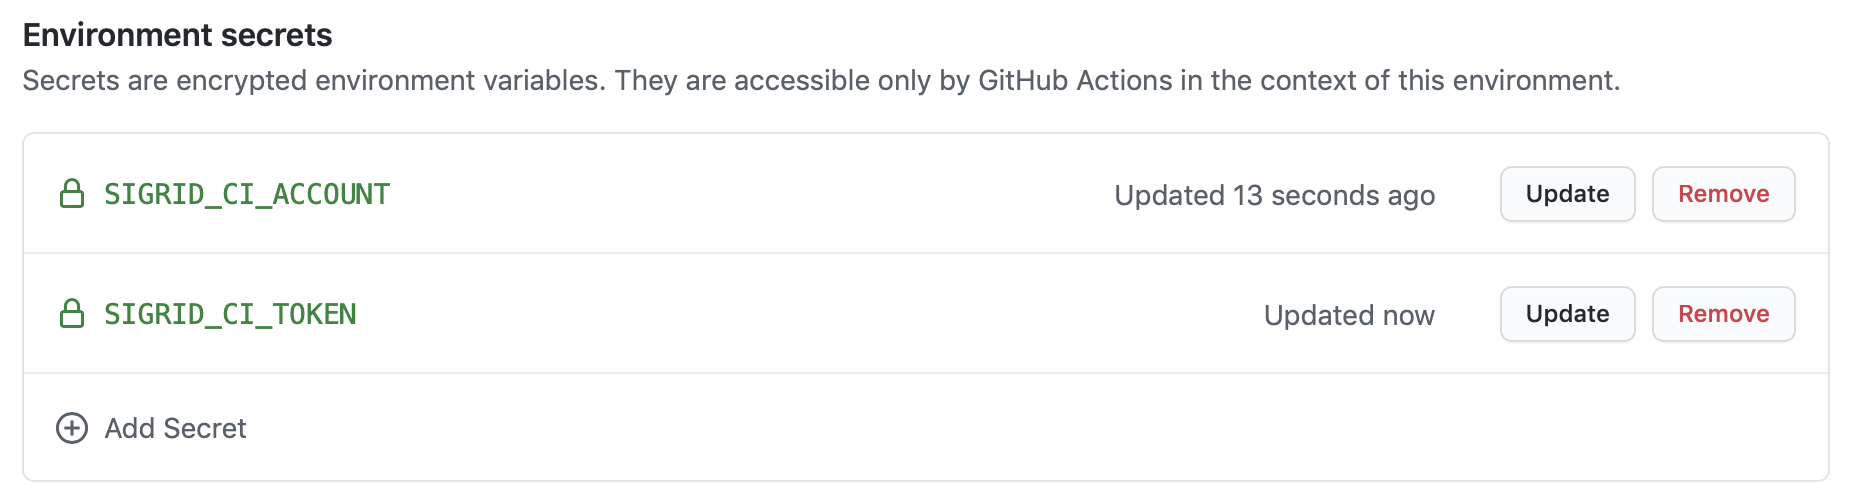
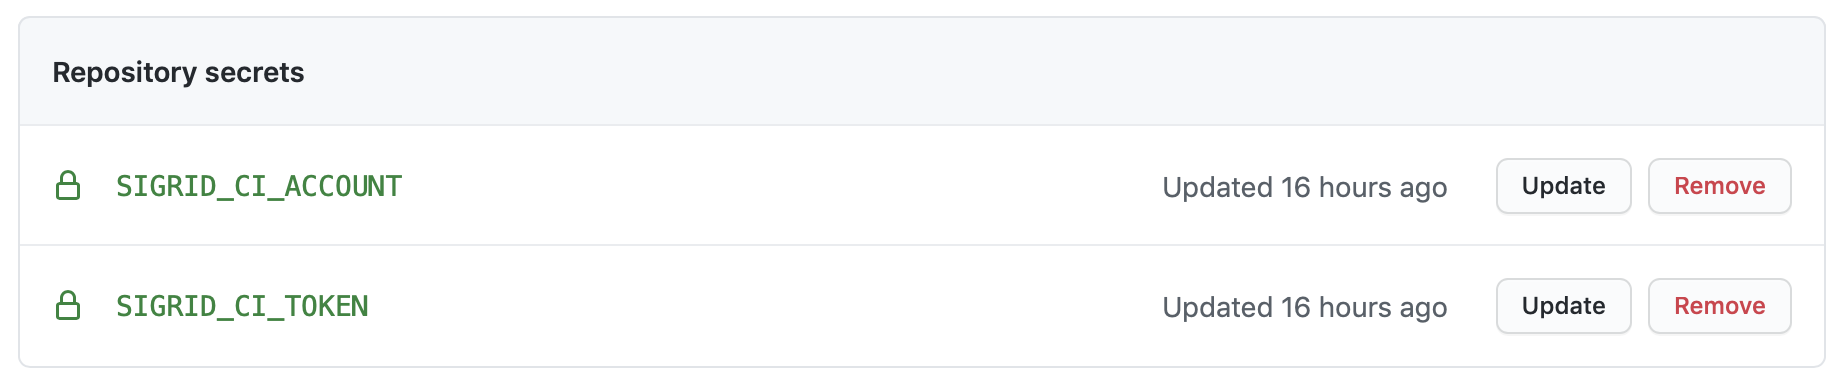
Add step-by-step guide for BitBucket Pipelines.

diff --git a/bitbucket-pipelines.md b/bitbucket-pipelines.md
@@ -1,7 +1,7 @@
-Integrating Sigrid CI with GitLab
-=================================
+Integrating Sigrid CI with BitBucket Pipelines
+==============================================
 
-This guide explains how to integrate Sigrid into your GitLab continuous integration pipeline. Make sure you have also read the [general Sigrid CI documentation](README.md) before starting this guide.
+This guide explains how to integrate Sigrid into your BitBucket Pipelines continuous integration pipeline. Make sure you have also read the [general Sigrid CI documentation](README.md) before starting this guide.
 
 ---
 
@@ -27,50 +27,39 @@ Once the account has been created, you can use Sigrid's user management feature 
 
 **Step 1: Configure Sigrid credentials to environment variables**
 
-Sigrid CI reads your Sigrid account credentials from two environment variables, called `SIGRID_CI_ACCOUNT` and `SIGRID_CI_TOKEN`. To add them to your GitLab CI pipeline, follow these steps:
+Sigrid CI reads your Sigrid account credentials from two environment variables, called `SIGRID_CI_ACCOUNT` and `SIGRID_CI_TOKEN`. You can make these environment variables available to BitBucket Pipelines by creating "secrets" in your repository:
 
-- Select "Settings" in your GitLab project's menu
-- Select "CI/CD" in the settings menu
-- Locate the section named "Variables"
-- Click the "Add variable" button
-- Add an environment variable `SIGRID_CI_ACCOUNT` with the account name you have received
+- Open "Repository settings" in your project menu
+- Select "Repository variables" located in the section "Pipelines"
+- Create a secret named `SIGRID_CI_ACCOUNT` with the account name you have received
 
-<img src="images/gitlab-env.png" width="400" />
+<img src="images/bitbucket-env.png" width="300" />
 
-- Add another environment variable, `SIGRID_CI_TOKEN`, and add the Sigrid CI token you have received
+- Add another secret named `SIGRID_CI_TOKEN` with the token you have received.
 
-These instructions describe how to configure a single GitLab project, but you can follow the same steps to configure the entire GitLab group, which will make the environment variables available to all projects within that group.
+**Step 2: Create a BitBucket Pipeline for Sigrid CI**
 
-**Step 2: Download the Sigrid CI client scripts and make them available to your Sigrid CI environment**
+Sigrid CI consists of a number of Python-based client scripts, that interact with Sigrid in order to analyze your project's source code and provide feedback based on the results. These client scripts need to be available to the CI environment, in order to call the scripts *from* the CI pipeline. You can configure your Piepline to both download the Sigrid CI client scripts and then run Sigrid CI. 
 
-Sigrid CI consists of a number of Python-based client scripts, that interact with Sigrid in order to analyze your project's source code and provide feedback based on the results. These client scripts need to be available to your GitLab runners, in order to call the scripts *from* the CI pipeline. 
-
-The scripts can be obtained by either cloning or downloading this repository, and moving the `sigridci` directory to a location that is available to the GitLab runners. 
-
-**Step 3: Add Sigrid CI to your project's CI pipeline**
-
-Next, you need to edit your project's CI configuration, in order to add Sigrid CI as an extra step. Open `.gitlab-ci.yml` in your project's root directory and add the following:
+In your BitBucket repository, create a file `bitbucket-pipelines.yml` and give it the following contents:
 
 ```
-stages:  
-(...)
-- report
+image: python:3.9-buster
 
-(...)
-
-sigridci:
-  stage: report
-  script:
-  - /path/to/sigridci/sigridci.py --customer opensource --system junit --source . --targetquality 3.5
-  allow_failure: true
-  artifacts:
-    paths:
-    - "sigrid-ci-output/*"
-    expire_in: 1 week
-    when: always
+pipelines:
+  default:
+  - step:
+      name: Sigrid CI
+      script:
+      - "git clone https://github.com/Software-Improvement-Group/sigridci.git sigridci"
+      - "./sigridci/sigridci/sigridci.py --customer opensource --system junit --source . --targetquality 3.5"
 ```
 
-The relevant command is the call to the `sigridci.py` script, which will call Sigrid CI. The script takes the following arguments:
+**Security note:** This example downlaods the Sigrid CI client scripts directly from GitHub. That might be acceptable for some projects, and is in fact increasingly common. However, some projects might not allow this as part of their security policy. In those cases, you can simply download the `sigridci` directory in this repository, and make it available to your runners (either by placing the scripts in a known location, or packaging them into a Docker container). 
+
+Refer to the [BitBucket Pipelines documentation](https://support.atlassian.com/bitbucket-cloud/docs/get-started-with-bitbucket-pipelines/) for more information on when and how these steps will be performed. The [bitbucket-pipelines.yml documentation](https://support.atlassian.com/bitbucket-cloud/docs/configure-bitbucket-pipelinesyml/) describes the file format used for the configuration file.
+
+The relevant command that starts Sigrid CI is the call to the `sigridci.py` script, which will call Sigrid CI. The script takes the following arguments:
 
 | Argument        | Required | Example value | Description                                                                                         |
 |-----------------|----------|---------------|-----------------------------------------------------------------------------------------------------|
@@ -84,11 +73,17 @@ Finally, note that you need to perform this step for every project where you wis
 
 ## Usage
 
-Once you have configured the integration, Sigrid CI will show up as a new step in your GitLab CI pipeline. The step will succeed if the code quality meets the specified target, and will fail otherwise. 
+Once Sigrid CI has been enabled, you can access it from the list of pipeline runs by accessing "Pipelines" from your repository's menu:
 
-<img src="images/ci-pipeline.png" width="300" />
+<img src="images/bitbucket-list.png" width="300" />
 
-Sigrid CI provides multiple levels of feedback. The first and fastest type of feedback is directly produced in the CI output, as shown in the following screenshot:
+<img src="images/bitbucket-pipeline-indicator.png" width="300" />
+
+The check will succeed if the code quality meets the specified target, and will fail otherwise. In addition to this central overview, you can also find the Sigrid CI indicator next to all commits:
+
+<img src="images/bitbucket-commits.png" width="300" />
+
+You can access the results by clicking on the pipeline's success/failure indicator. Sigrid CI provides multiple levels of feedback. The first and fastest type of feedback is directly produced in the CI output, as shown in the following screenshot:
 
 <img src="images/feedback-ci-environment.png" width="600" />
 
@@ -98,11 +93,7 @@ The output consists of the following:
 - An overview of all ratings, compared against the system as a whole. This allows you to check if your changes improved the system, or accidentally made things worse.
 - The final conclusion on whether your changes and merge request meet the quality target.
 
-In addition to the textual output, Sigrid CI also generates a static HTML file that shows the results in a more graphical form. This is similar to test coverage tools, which also tend to produce a HTML report. You can download this report form GitLab using the "download" button on the right side of the CI results view:
-
-<img src="images/gitlab-download.png" width="300" />
-
-The information in the HTML report is based on the aforementioned list, though it includes slightly more detail.
+In addition to the textual output, Sigrid CI also generates a static HTML file that shows the results in a more graphical form. This is similar to test coverage tools, which also tend to produce a HTML report. The information in the HTML report is based on the aforementioned list, though it includes slightly more detail.
 
 <img src="images/feedback-report.png" width="600" />
 

diff --git a/github-actions.md b/github-actions.md
@@ -1,7 +1,7 @@
 Integrating Sigrid CI with GitHub Actions
 =========================================
 
-This guide explains how to integrate Sigrid into your GitHub continuous integration pipeline. Make sure you have also read the [general Sigrid CI documentation](README.md) before starting this guide.
+This guide explains how to integrate Sigrid into your GitHub continuous integration pipeline, using GitHub Actions. Make sure you have also read the [general Sigrid CI documentation](README.md) before starting this guide.
 
 ---
 
@@ -11,37 +11,41 @@ This guide explains how to integrate Sigrid into your GitHub continuous integrat
 
 ## Prerequisites
 
-- You have credentials to submit your code to Sigrid. [Request a Sigrid CI account](mailto:support@softwareimprovementgroup.com) if this is not the case.
+- You have a Sigrid user account. Sigrid CI requires Sigrid, it is currently not supported to *only* use the CI integration without using Sigrid itself.
 - You have on-boarded your system, i.e. your system is available in Sigrid. [Request your system to be added](mailto:support@softwareimprovementgroup.com) if this is not yet the case.
 - [Python 3](https://www.python.org) needs to be available in the CI environment. The client scripts for Sigrid CI are based on Python.
+
+## Request a Sigrid CI account
+
+The account you use to submit code to Sigrid CI is different from your normal Sigrid user account. The account consists of an account name and a token, which you add to your CI environment's configuration in the next step. 
+
+You can obtain a Sigrid CI account by requesting one from [mailto:support@softwareimprovementgroup.com](mailto:support@softwareimprovementgroup.com). Support for creating Sigrid CI accounts yourself will be added in a future version.
+
+Once the account has been created, you can use Sigrid's user management feature to control which systems it is allowed to access. Similar to normal Sigrid user accounts, Sigrid CI accounts can either serve a specific system, a group of systems, or all systems in your portfolio.
 
 ## Configuration
 
 **Step 1: Configure Sigrid credentials to environment variables**
 
-Sigrid CI reads your Sigrid account credentials from two environment variables, called `SIGRID_CI_ACCOUNT` and `SIGRID_CI_TOKEN`. You can either define these environment variables in the CI user's `~/.bashrc`, though some platforms also allow you to define environment variables using a graphical interface.
-
-You can make these environment variables available using the following steps:
+Sigrid CI reads your Sigrid account credentials from two environment variables, called `SIGRID_CI_ACCOUNT` and `SIGRID_CI_TOKEN`. You can make these environment variables available to GitHub Actions by creating "secrets" in your GitHub repository:
 
 - Open your project settings in GitHub
-- Select "Environments" in the settings menu
-- If no environment is available yet, click "New environment"
-- Give the environment a name (can be anything) and select "Configure environment"
-- Click "Add secret"
-- Add an environment variable `SIGRID_CI_ACCOUNT` with the account name you have received
+- Select "Secrets" in the menu on the left
+- Use the "New repository secret" button
+- Create a secret named `SIGRID_CI_ACCOUNT` with the account name you have received
 
 <img src="images/github-env.png" width="400" />
 
-- Add another environment variable `SIGRID_CI_TOKEN` with the token you have received.
-- Your environment secrets should now look like this:
+- Add another secret named `SIGRID_CI_TOKEN` with the token you have received.
+- Your repository secrets should now look like this:
 
 <img src="images/github-env-secrets.png" width="400" />
 
-**Step 2: Download the Sigrid CI client scripts and make them available to your Sigrid CI environment**
+**Step 2: Create a GitHub Actions workflow for Sigrid CI**
 
 Sigrid CI consists of a number of Python-based client scripts, that interact with Sigrid in order to analyze your project's source code and provide feedback based on the results. These client scripts need to be available to the CI environment, in order to call the scripts *from* the CI pipeline. You can configure your GitHub Actions to both download the Sigrid CI client scripts and then run Sigrid CI. 
 
-In your GitHub repository, create a file `.github/workflows/sigridci.yml` and give it the following conents:
+In your GitHub repository, create a file `.github/workflows/sigridci.yml` and give it the following contents:
 
 ```
 name: sigridci
@@ -50,9 +54,12 @@ jobs:
   sigridci:
     runs-on: ubuntu-latest
     steps:
-      - run: "echo Sigrid CI example"
-      - run: "git clone X sigridci"
-      - run: "./sigridci/sigridci.py --customer opensource --system junit --source . --targetquality 3.5" 
+      - run: "git clone https://github.com/Software-Improvement-Group/sigridci.git sigridci"
+      - name: "Run Sigrid CI" 
+        env:
+          SIGRID_CI_ACCOUNT: "${{ secrets.SIGRID_CI_ACCOUNT }}"
+          SIGRID_CI_TOKEN: "${{ secrets.SIGRID_CI_TOKEN }}"
+        run: "./sigridci/sigridci/sigridci.py --customer opensource --system junit --source . --targetquality 3.5"
 ```
 
 **Security note:** This example downlaods the Sigrid CI client scripts directly from GitHub. That might be acceptable for some projects, and is in fact increasingly common. However, some projects might not allow this as part of their security policy. In those cases, you can simply download the `sigridci` directory in this repository, and make it available to your runners (either by placing the scripts in a known location, or packaging them into a Docker container). 

diff --git a/faq.md b/faq.md
@@ -11,6 +11,7 @@ Sigrid CI: Frequently Asked Questions
 - [What branch or commit does Sigrid CI compare against?](#what-branch-or-commit-does-sigrid-ci-compare-against)
 - [Why am I being penalized for problems that were already there?](#why-am-i-being-penalized-for-problems-that-were-already-there)
 - [Should we fail the build if the Sigrid CI check fails?](#should-we-fail-the-build-if-the-sigrid-ci-check-fails)
+- [Why doesn't deleted code influence the rating?](#why-doesnt-deleted-code-influence-the-rating)
 
 ---
 
@@ -65,6 +66,12 @@ That's obviously your decision and something that depends on your development pr
 One of Sigrid's key goals is making software quality advice *reasonable*. It's easy to invent a thousand quality checks and making them all mandatory, failing the build as soon as a single violation is found. It's obviously possible to fix every single issue, but it's probably not worth it considering what you get in return. Sigrid focuses on a relatively limited set of metrics, to avoid overloading developers with tons of instructions. Moreover, a small amount of non-conformities is tolerated, as long as the overall quality doesn't drop below a certain level. 
 
 We therefore believe in a comply-or-explain model. Obviously, you should still strive to pass the Sigrid CI check in the overwhelming majority of cases. However, in the rare cases the check fails, it's perfectly OK for the reviewer to overrule the check and accept the pull request, as long as the reviewer finds that the author had good reasons for deviating from the best practice in that particular case.
+
+## Why doesn't deleted code influence the rating?
+
+In general, deleting code improves maintainability. The less code you have, the less you have to maintain. Having less code also makes it easier to make structural changes, since such changes will require less effort.
+
+So why does Sigrid CI only give ratings based on new and changed code, but doesn't reward you for deleting code? This is mostly to keep the rating simple: combining code quality and deleted code into a single metric would make it hard to understand. Also, the majority of pull requests are about adding new code or changing existing code, deleting code is less common, so we have chosen to not optimize for that scenario.
 
 ## Contact and support
 

diff --git a/integration.md b/integration.md
@@ -11,9 +11,17 @@ This guide explains how to integrate Sigrid into your continuous integration pip
 
 ## Prerequisites
 
-- You have credentials to submit your code to Sigrid. [Request a Sigrid CI account](mailto:support@softwareimprovementgroup.com) if this is not the case.
+- You have a Sigrid user account. Sigrid CI requires Sigrid, it is currently not supported to *only* use the CI integration without using Sigrid itself.
 - You have on-boarded your system, i.e. your system is available in Sigrid. [Request your system to be added](mailto:support@softwareimprovementgroup.com) if this is not yet the case.
 - [Python 3](https://www.python.org) needs to be available in the CI environment. The client scripts for Sigrid CI are based on Python.
+
+## Request a Sigrid CI account
+
+The account you use to submit code to Sigrid CI is different from your normal Sigrid user account. The account consists of an account name and a token, which you add to your CI environment's configuration in the next step. 
+
+You can obtain a Sigrid CI account by requesting one from [mailto:support@softwareimprovementgroup.com](mailto:support@softwareimprovementgroup.com). Support for creating Sigrid CI accounts yourself will be added in a future version.
+
+Once the account has been created, you can use Sigrid's user management feature to control which systems it is allowed to access. Similar to normal Sigrid user accounts, Sigrid CI accounts can either serve a specific system, a group of systems, or all systems in your portfolio.
 
 ## Configuration
 

diff --git a/README.md b/README.md
@@ -46,7 +46,7 @@ In addition to the generic instructions, we have also prepared specific instruct
 
 - [Integrating Sigrid CI with GitHub Actions](github-actions.md)
 - [Integrating Sigrid CI with GitLab](gitlab.md)
-- Integrating Sigrid CI with Bitbucket Pipelines *(coming soon)*
+- [Integrating Sigrid CI with Bitbucket Pipelines](bitbucket-pipelines.md)
 - Integrating Sigrid CI with Azure DevOps *(coming soon)*
 - Integrating Sigrid CI with Jenkins *(coming soon)*
 
